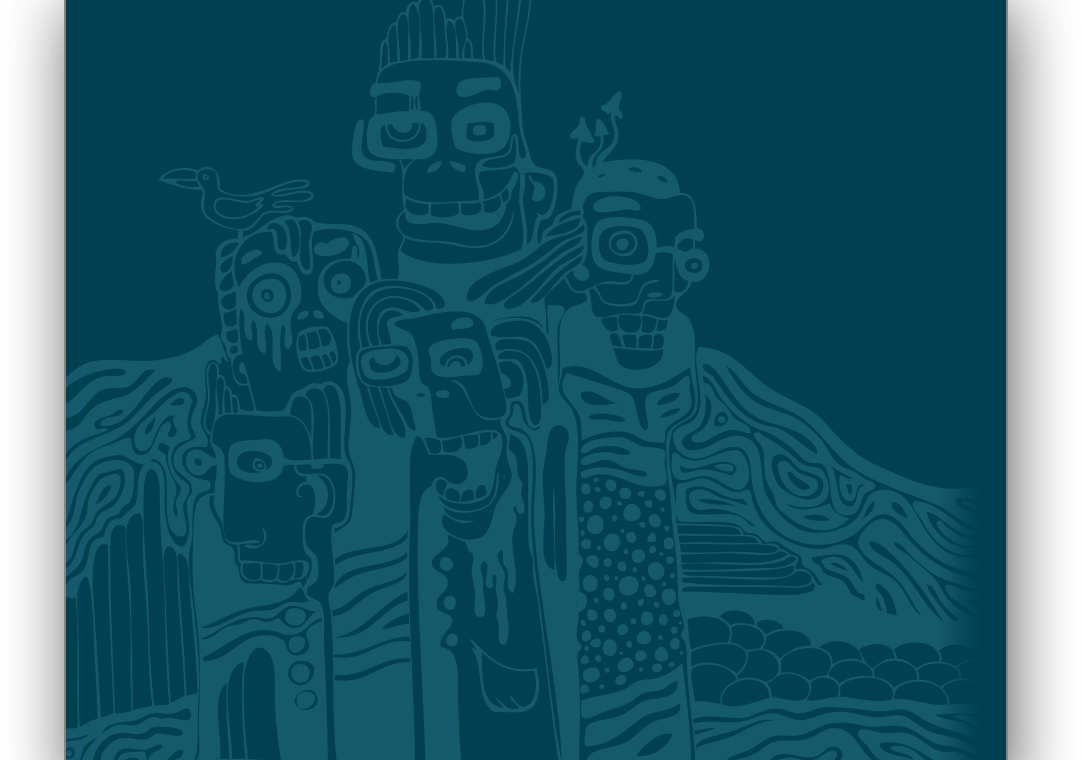
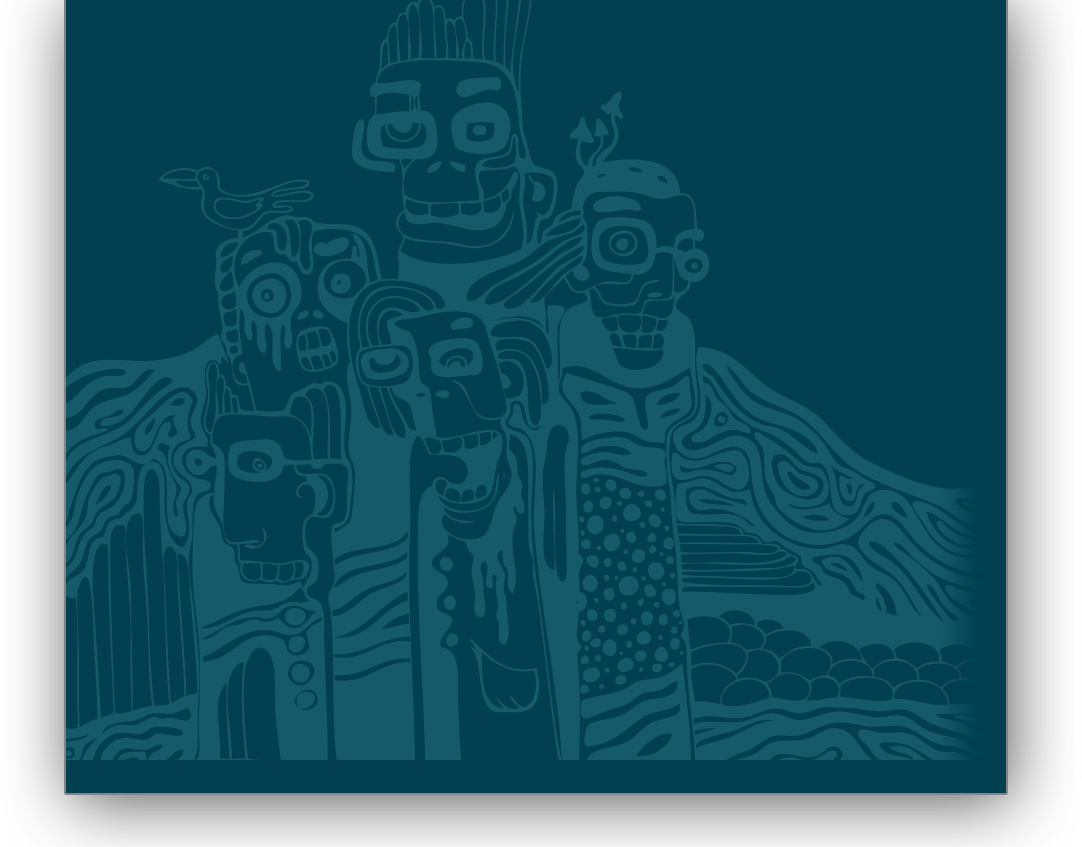
Styles for layout and left column

Changed region(s): [[0.0305, 0.0605, 0.976, 1.0]]

diff --git a/index.html b/index.html
@@ -5,6 +5,8 @@
         <meta charset="utf-8">
         <meta http-equiv="X-UA-Compatible" content="IE=edge"/>
 
+        <link href='http://fonts.googleapis.com/css?family=Cuprum&subset=latin,cyrillic' rel='stylesheet' type='text/css'>
+
         <link rel="stylesheet" type="text/css" href="css/style.css">
         <link rel="shortcut icon" type="image/x-icon" href="murdalay.ico">
 
@@ -13,62 +15,102 @@
     </head>
 
     <body class="page__body">
-        <div class="l-layout">
-            <img src="i/photo.jpg" class="photo" alt="Сергей Иванченко" title="Murdalay"/>
-            <div class="greetings">
-                <h3 class="title">Здравствуйте!</h3>
-                <p class="content">
-                    Меня зовут Сергей Иваниченко.
-                    Более пятнадцати лет я занимаюсь графическим дизайном, и визуализацией в сфере полиграфии, видео, и
-                    в рекламе. У меня богатейший опыт разработки печатной продукции любой сложности -- от книги и
-                    визитки до бигборда. Я участвовал во многих журнальных проектах, как в роли дизайнера, так и в
-                    качестве руководителя дизайнерской группы. Имею опыт фото- видеосъемки и работы с разнообразным
-                    мультимедийным контентом.
-                    Но мир меняется, и чтобы оставаться в эпицентре событий необходимо открывать для себя новые рубежи.
-                    Веб-технологии стали для меня таким новым рубежом. С их помощью я могу реализовать свои творческие и
-                    профессиональные идеи на новом уровне интерактивности. Надеюсь, что участие в ШРИ мне в этом
-                    поможет. Спасибо!
-                </p>
+
+        <div class="layout">
+
+            <div class="layout__lcol">
+
+                <img src="i/photo.jpg" class="photo" alt="Сергей Иванченко" title="Murdalay"/>
+
+                <div class="greetings">
+
+                    <div class="widget widget_color_blue">
+                        <h3 class="widget__title">Здравствуйте!</h3>
+
+                        Меня зовут Сергей Иваниченко.
+                        Более пятнадцати лет я занимаюсь графическим дизайном, и визуализацией в сфере полиграфии, видео, и
+                        в рекламе. У меня богатейший опыт разработки печатной продукции любой сложности -- от книги и
+                        визитки до бигборда. Я участвовал во многих журнальных проектах, как в роли дизайнера, так и в
+                        качестве руководителя дизайнерской группы. Имею опыт фото- видеосъемки и работы с разнообразным
+                        мультимедийным контентом.
+                        Но мир меняется, и чтобы оставаться в эпицентре событий необходимо открывать для себя новые рубежи.
+                        Веб-технологии стали для меня таким новым рубежом. С их помощью я могу реализовать свои творческие и
+                        профессиональные идеи на новом уровне интерактивности. Надеюсь, что участие в ШРИ мне в этом
+                        поможет. Спасибо!
+                    </div>
+
+                </div>
+
             </div>
-        </div>
-        <div class="center-layout">
-            <i class="phone"></i>
-            <i class="e-mail"></i>
-            <i class="address"></i>
-            <h2 class="topic">Общие вопросы</h2>
-                <ul class="topic__list">
-                    <li class="topic__item">Фамилия, имя, отчество</li>
-                    <li class="topic__item">Год рождения</li>
-                    <li class="topic__item">Город в котором вы сейчас живете</li>
-                    <li class="topic__item">Вуз, факультет, специальн.,кафедра</li>
-                    <li class="topic__item">Год окончания вуза</li>
-                    <li class="topic__item">Уровень владения английским языком</li>
-                    <li class="topic__item">Что вы ожидаете от участия в Школе</li>
-                    <li class="topic__item">Откуда вы о нас узнали?</li>
-                    <li class="topic__item">Сколько времени вы готовы уделять стажировке или работе в Яндексе?</li>
+
+            <div class="layout__ccol">
+
+                <ul class="contacts">
+                    <li class="contacts__item contacts__item_position_first"><i class="icon icon_type_phone"></i></li>
+                    <li class="contacts__item"><i class="icon icon_type_mail"></i></li>
+                    <li class="contacts__item contacts__item_position_last"><i class="icon icon_type_card"></i></li>
                 </ul>
-        </div>
-        <div class="r-layout">
-            <div class="preview">
-                <h4 class="subtopic">Город в котором вы живете</h4>
-                <p class="content-text">Веб-интерфейсами я занимаюсь сравнительно недавно. Немногим более года. Но я
-                    постарался взять как можно больше из своего предыдущего опыта в графическом дизайне и использовать
-                    эти знания для создания оригинальных интерфейсов.</p>
+
+                <h2 class="col-title">Общие вопросы</h2>
+
+                <div class="widget">Фамилия, имя, отчество</div>
+
+                <div class="widget">Год рождения</div>
+
+                <div class="widget">Город в котором вы сейчас живете</div>
+
+                <div class="widget">Вуз, факультет, специальн.,кафедра</div>
+
+                <div class="widget">Год окончания вуза</div>
+
+                <div class="widget">Уровень владения английским языком</div>
+
+                <div class="widget">Что вы ожидаете от участия в Школе</div>
+
+                <div class="widget">Откуда вы о нас узнали?</div>
+
+                <div class="widget">Сколько времени вы готовы уделять стажировке или работе в Яндексе?</div>
+
+                <div class="col-footer"></div>
+
             </div>
-            <div class="topic-cell">
-                <h2 class="topic">Опыт разработки</h2>
-                <ul class=|topic__list>
-                    <li class="topic__item">С какими редакторами и средами разработки вы знакомы? Чем обычно пользуетесь?</li>
-                    <li class="topic__item">Расскажите нам о вашем опыте разработки. Ничего не упускайте: это может быть как
-                        серьезный интерфейс, так и просто домашняя страничка.
-                    </li>
-                    <li class="topic__item">Какие языки программирования, фреймворки и технологии вы использовали?</li>
-                    <li class="topic__item">С какими ОС приходилось сталкиваться? Для каких целей вы их применяли?</li>
-                    <li class="topic__item">Использовали ли вы системы постановки и ведения задач?</li>
-                    <li class="topic__item">Приходилось ли вам работать с системами контроля версий?С какими? Какая из них вам нравится больше всего?</li>
-                    <li class="topic__item">Какие полезные для фронтенд-разработчика ресурсы вы используете и готовы посоветовать?</li>
-                </ul>
+
+            <div class="layout__rcol">
+
+                <div class="preview">
+                    <h4 class="preview__title">Город в котором вы живете</h4>
+
+                    <p class="preview__text">
+                        Веб-интерфейсами я занимаюсь сравнительно недавно. Немногим более года. Но я
+                        постарался взять как можно больше из своего предыдущего опыта в графическом дизайне и использовать
+                        эти знания для создания оригинальных интерфейсов.
+                    </p>
+                </div>
+
+                <h2 class="col-title">Опыт разработки</h2>
+
+                <div class="widget">С какими редакторами и средами разработки вы знакомы? Чем обычно пользуетесь?</div>
+
+                <div class="widget">
+                    Расскажите нам о вашем опыте разработки. Ничего не упускайте: это может быть как
+                    серьезный интерфейс, так и просто домашняя страничка.
+                </div>
+
+                <div class="widget">Какие языки программирования, фреймворки и технологии вы использовали?</div>
+
+                <div class="widget">С какими ОС приходилось сталкиваться? Для каких целей вы их применяли?</div>
+
+                <div class="widget">Использовали ли вы системы постановки и ведения задач?</div>
+
+                <div class="widget">
+                    Приходилось ли вам работать с системами контроля версий? С какими?
+                    Какая из них вам нравится больше всего
+                </div>
+
+                <div class="widget">Какие полезные для фронтенд-разработчика ресурсы вы используете и готовы посоветовать?</div>
+
             </div>
+
         </div>
     </body>
 

diff --git a/css/style.css b/css/style.css
@@ -52,6 +52,9 @@
 
 .page
 {
+    font: lighter 13px 'Cuprum', sans-serif;
+    line-height: 1.4em;
+    color: #fff;
     background: url(../i/page-bg.jpg);
 }
 
@@ -60,5 +63,104 @@
     margin: auto;
     min-width: 1000px;
     max-width: 1082px;
+    height: 848px;
     background: url(../i/body-bg.png) 50% 0 repeat-y;
+}
+
+/* Стили для раскладки страницы */
+.layout
+{
+    margin: auto;
+    width: 950px;
+    overflow: hidden;
+}
+
+.layout__lcol
+{
+    float: left;
+    margin: 0 0 0 34px;
+    width: 270px;
+}
+
+.layout__ccol
+{
+    float: left;
+    margin: 0 0 0 30px;
+    width: 170px;
+}
+
+.layout__rcol
+{
+    float: left;
+    margin: 0 0 0 20px;
+    width: 418px;
+}
+
+/* Контент */
+.photo
+{
+    margin: 0 0 20px;
+    border: 0;
+}
+
+.contacts
+{
+    margin: 0 0 20px 0;
+    overflow: hidden;
+    list-style: none;
+    background: #a47800;
+}
+
+.contacts__item
+{
+    float: left;
+    width: 55px;
+    height: 40px;
+    border-right: 1px solid #897338;
+    border-left: 1px solid #c6ab60;
+}
+
+.contacts__item_position_first
+{
+    border-left: 0;
+}
+
+.contacts__item_position_last
+{
+    border-right: 0;
+}
+
+.contacts .icon
+{
+    margin: 8px auto;
+    cursor: pointer;
+}
+
+.widget
+{
+    padding: 10px 6px 20px 20px;
+}
+
+.widget_color_blue
+{
+    background: rgba(0, 134, 156, 0.7);
+}
+
+.widget__title
+{
+    font-size: 20px;
+    font-weight: normal;
+    padding: 15px 0 8px 0;
+    color: #000;
+}
+
+.col-title
+{
+    font-size: 20px;
+    font-weight: normal;
+    padding: 0 0 0 10px;
+    height: 60px;
+    line-height: 40px;
+    color: #be1e4a;
+    background: #252525;
 }
